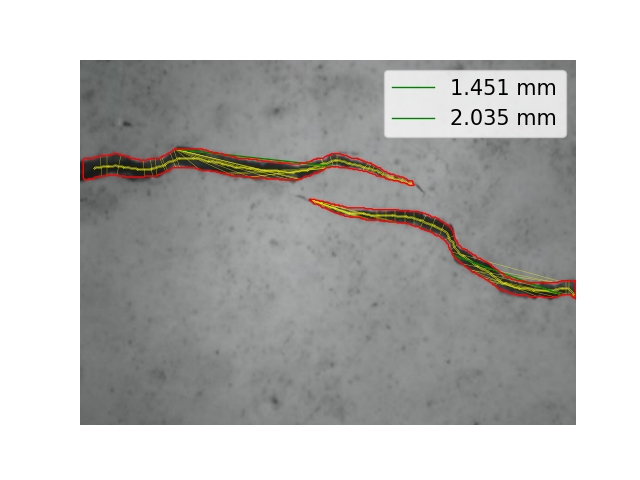
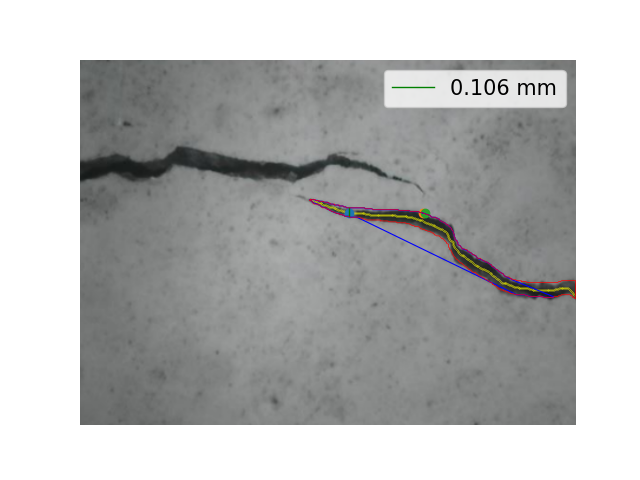
chore: update 25-12-10:00

diff --git a/main.py b/main.py
@@ -10,11 +10,16 @@ import matplotlib.pyplot as plt
 from lib_imacs_cracks import *
 from width_crack import *
 
+import time
+
+start_time = time.time()
+
 #Nhập thông tin
 path_import = 'fig/'#Thư mục chứa ảnh
 path_export = 'fig-width/'#Thư mục trả kết quả
 
-img_name = '7.png'#Tên ảnh
+# img_name = 'vd2.jpg'
+img_name = '7.png'
 
 img_path = path_import+img_name
 original_image = cv2.imread(img_path)
@@ -24,68 +29,73 @@ k_width = 0.011754334835464791
 model = YOLO("crack_width_YOLOv8.pt")
 cracks = model.predict(source=img_path, conf=0.4)[0]
 
-for crack in cracks.masks.xy:
-    crack = np.concatenate((crack, np.array([crack[0]])))
-    crack = crack.astype(np.int32)
+crack = cracks.masks.xy[0]
+crack = np.concatenate((crack, np.array([crack[0]])))
+crack = crack.astype(np.int32)
 
-    #Lấy tập chuẩn G trong S
-    standard_set = hh_skeletonize(original_image,crack)
+#Lấy tập chuẩn G trong S
+standard_set = hh_skeletonize(original_image,crack)
 
-    #Tính độ rộng tại hữu hạn các điểm trong G
-    standard_set_length=len(standard_set)-1
-    Num_p=int(standard_set_length*0.1)
-    Angle_p=4
-    standard_width_lenght=0
-    # standard_width = None
-    minU = None
-    minV = None
+#Tính độ rộng tại hữu hạn các điểm trong G
+standard_set_length=len(standard_set)-1
+Num_p=int(standard_set_length*0.1)
+Angle_p=4
+standard_width_lenght=0
+# standard_width = None
+minU = None
+minV = None
 
-    print("crack: ", crack)
 
-    for k in [1/Num_p*i for i in range(Num_p+1)]:
-        try:
-            p = standard_set[int(standard_set_length*k)]
+error_set = []
 
-            # Cập nhật code chỗ này
-            # p_segments = hh_width_point_approx(p, crack, Angle_p)
-            p_width, min_u, min_v = width_crack(p, crack)
-            # p_width = np.sqrt((p_segments.min[0][0]-p_segments.min[1][0])**2+(p_segments.min[0][1]-p_segments.min[1][1])**2)
-            ######
+for k in [1/Num_p*i for i in range(Num_p+1)]:
+    try:
+        p = standard_set[int(standard_set_length*k)]
+        # p = [144, 160]
 
-            u = [min_u[0], min_v[0]]
-            v = [min_u[1], min_v[1]]
+        # Cập nhật code chỗ này
+        p_width, min_u, min_v, visibility_set = width_crack(p, crack)
+        ######
 
-            if p_width>standard_width_lenght:
-                standard_width_lenght = p_width
-                # Cập nhật code chỗ này
-                # standard_width = p_segments.min
-                minU = u
-                minV = v
-                #####
+        u = [min_u[0], min_v[0]]
+        v = [min_u[1], min_v[1]]
 
-            # for seg in p_segments.all:
-            #     plt.plot(seg[:, 0], seg[:, 1], color='green', linewidth=0.5)
-            
-            # plt.plot(p_segments.min[:, 0], p_segments.min[:, 1], color='blue', linewidth=0.2)
-            plt.plot(u, v, color='yellow', linewidth=0.2)
+        if p_width>standard_width_lenght:
+            standard_width_lenght = p_width
+            minU = u
+            minV = v
+            #####
 
-            # plt.scatter(p[0], p[1], s=2, c='orange', zorder=2)
-        except:
-            pass
-    
-    # print('standard_width = ', standard_width[:, 0])
+        # visibility_set.append(visibility_set[0])
+        # a, b = zip(*visibility_set)
 
-    # Cập nhật code chỗ này
-    # plt.plot(standard_width[:, 0], standard_width[:, 1], color='red', linewidth=1, label=str(round(standard_width_lenght*k_width,3))+' mm')
-    plt.plot(minU, minV, color='green', linewidth=1, label=str(round(standard_width_lenght*k_width,3))+' mm')
-    #####
+        # Vẽ đoạn thẳng qua u, v
+        plt.plot(u, v, color='yellow', linewidth=0.5)
 
-    plt.scatter(standard_set[:, 0], standard_set[:, 1], s=0.05, color='yellow')
-    # plt.fill(crack[:, 0], crack[:, 1], color='yellow', alpha=0.2)
-    plt.plot(crack[:, 0], crack[:, 1], color='red', linewidth=1)
-    
-plt.imshow(cv2.cvtColor(original_image, cv2.COLOR_BGR2RGB))
-plt.axis('off')
-plt.legend(loc="upper right",fontsize=15)
-plt.savefig('fig-width/'+img_name)
+        # Vẽ điểm p của visibility polygon
+        plt.plot(p[0], p[1], marker='o')
+
+        # plot visibility_polygon
+        # plt.plot(a, b, color='blue', linewidth=0.8)
+
+    except:
+        error_set.append(p)
+        pass
+
+# print('standard_width = ', standard_width[:, 0])
+
+# Cập nhật code chỗ này
+# plt.plot(standard_width[:, 0], standard_width[:, 1], color='red', linewidth=1, label=str(round(standard_width_lenght*k_width,3))+' mm')
+plt.plot(minU, minV, color='green', linewidth=1, label=str(round(standard_width_lenght*k_width,3))+' mm')
+#####
+
+plt.scatter(standard_set[:, 0], standard_set[:, 1], s=0.05, color='yellow')
+# plt.fill(crack[:, 0], crack[:, 1], color='yellow', alpha=0.2)
+plt.plot(crack[:, 0], crack[:, 1], color='red', linewidth=0.5)
+
+print("standard_width_lenght = ", standard_width_lenght)
+
+end_time = time.time()
+
+print("Elapsed time: ", end_time - start_time)
 plt.show()

diff --git a/test_point_main.py b/test_point_main.py
@@ -1,0 +1,97 @@
+"""
+This code is copyrighted by Institute of Mathematical and Computational Sciences - IMACS, 
+    Ho Chi Minh City University of Technology (HCMUT).  
+Contact: Prof. Phan Thanh An thanhan@hcmut.edu.vn
+"""
+from ultralytics import YOLO
+import cv2
+import numpy as np
+import matplotlib.pyplot as plt
+from lib_imacs_cracks import *
+from width_crack import *
+
+#Nhập thông tin
+path_import = 'fig/'#Thư mục chứa ảnh
+path_export = 'fig-width/'#Thư mục trả kết quả
+
+# img_name = 'vd2.jpg'
+img_name = '7.png'
+
+img_path = path_import+img_name
+original_image = cv2.imread(img_path)
+k_width = 0.011754334835464791
+
+#Nhận diện vết nứt S
+model = YOLO("crack_width_YOLOv8.pt")
+cracks = model.predict(source=img_path, conf=0.4)[0]
+
+crack = cracks.masks.xy[0]
+crack = np.concatenate((crack, np.array([crack[0]])))
+crack = crack.astype(np.int32)
+
+#Lấy tập chuẩn G trong S
+standard_set = hh_skeletonize(original_image,crack)
+
+#Tính độ rộng tại hữu hạn các điểm trong G
+standard_set_length=len(standard_set)-1
+Num_p=int(standard_set_length*0.1)
+Angle_p=4
+standard_width_lenght=0
+# standard_width = None
+minU = None
+minV = None
+
+error_set = []
+
+
+# p = standard_set[int(standard_set_length*k)]
+p = [523, 245]
+
+# Cập nhật code chỗ này
+p_width, min_u, min_v, visibility_set, test_set = width_crack(p, crack)
+######
+
+u = [min_u[0], min_v[0]]
+v = [min_u[1], min_v[1]]
+
+if p_width>standard_width_lenght:
+    standard_width_lenght = p_width
+    minU = u
+    minV = v
+    #####
+
+visibility_set.append(visibility_set[0])
+a, b = zip(*visibility_set)
+
+# Vẽ đoạn thẳng qua u, v
+plt.plot(u, v, color='yellow', linewidth=0.5)
+
+# Vẽ điểm p của visibility polygon
+plt.plot(p[0], p[1], marker='o')
+
+# plot visibility_polygon
+plt.plot(a, b, color='blue', linewidth=0.8)
+
+# plot 2 points in M(P,p)
+plt.plot(min_u[0], min_u[1], marker='o')
+plt.plot(min_v[0], min_v[1], marker='o')
+
+# Plot 2 edge that contain u and v:
+u1 = [test_set[0][0][0], test_set[0][1][0]]
+v1 = [test_set[0][0][1], test_set[0][1][1]]
+u2 = [test_set[1][0][0], test_set[1][1][0]]
+v2 = [test_set[1][0][1], test_set[1][1][1]]
+plt.plot(u1, v1, color='red', linewidth=1.5)
+plt.plot(u2, v2, color='red', linewidth=1.5)
+
+# Cập nhật code chỗ này
+# plt.plot(standard_width[:, 0], standard_width[:, 1], color='red', linewidth=1, label=str(round(standard_width_lenght*k_width,3))+' mm')
+plt.plot(minU, minV, color='green', linewidth=1, label=str(round(standard_width_lenght*k_width,3))+' mm')
+#####
+
+plt.scatter(standard_set[:, 0], standard_set[:, 1], s=0.05, color='yellow')
+# plt.fill(crack[:, 0], crack[:, 1], color='yellow', alpha=0.2)
+plt.plot(crack[:, 0], crack[:, 1], color='red', linewidth=0.5)
+
+print("standard_width_lenght = ", standard_width_lenght)
+plt.show()

diff --git a/width_crack.py b/width_crack.py
@@ -280,13 +280,13 @@ def width_crack(p, pol1):
 
     pol = visibility_polygon(p ,pol1)
 
-    m = len(pol)-1
+    m = len(pol)
     count = 0
     k = 0
     t = []
 
      # Check if p is in the boundary
-    while count <= m:
+    while count < m:
         # print("(", pol[count][0], ", ", pol[count][1], ") ")
         if onSegment(pol[count], pol[(count + 1) % m], p):
             return (0,pol[count], pol[(count + 1) % m], p)
@@ -305,12 +305,12 @@ def width_crack(p, pol1):
     j = i_o
     # test_set = (t[i][0], t[i][1], t[j][0], t[j][1])
     while i<=i_o and j<k:
-        array = shortest_edge(t[i][0], t[i][1], t[j][0], t[j][1], p)
-        if(distance(array[0], array[1]) < min_value):
-            min_value = distance(array[0], array[1])
-            min_x = array[0]
-            min_y = array[1]
-            test_set = (t[i][0], t[i][1], t[j][0], t[j][1])
+        pair_points = shortest_edge(t[i][0], t[i][1], t[j][0], t[j][1], p)
+        if(distance(pair_points[0], pair_points[1]) < min_value):
+            min_value = distance(pair_points[0], pair_points[1])
+            min_x = pair_points[0]
+            min_y = pair_points[1]
+            test_set = [t[i], t[j]]
         if(j < k-1 and check_visible(t[i][0], t[i][1], t[j+1][0], t[j+1][1], p) == True):
             j = j+1
         else:

diff --git a/visibility.py b/visibility.py
@@ -140,9 +140,9 @@ def visibility_polygon(p, pol):
 
             if angle_of_ray(p, p1, visibility_set[vis_len-1], 2) > max_angle:
                 max_angle = angle_of_ray(p, p1, visibility_set[vis_len-1])
-            if abs(visibility_set[vis_len-1][0] - pol[track][0]) < delta and abs(visibility_set[vis_len-1][0] - pol[track][0]) < delta:
-                track = (track + check_wise) % number_of_edge
-                continue
+            # if abs(visibility_set[vis_len-1][0] - pol[track][0]) < delta and abs(visibility_set[vis_len-1][0] - pol[track][0]) < delta:
+            #     track = (track + check_wise) % number_of_edge
+            #     continue
             angle_diff = angle_of_ray(p, visibility_set[vis_len-1], pol[track], 3)
 
             # Trường hợp 1: Các cạnh xoay theo chiều ngược kim đồng hồ, ta xét 2 trường hợp nhỏ
